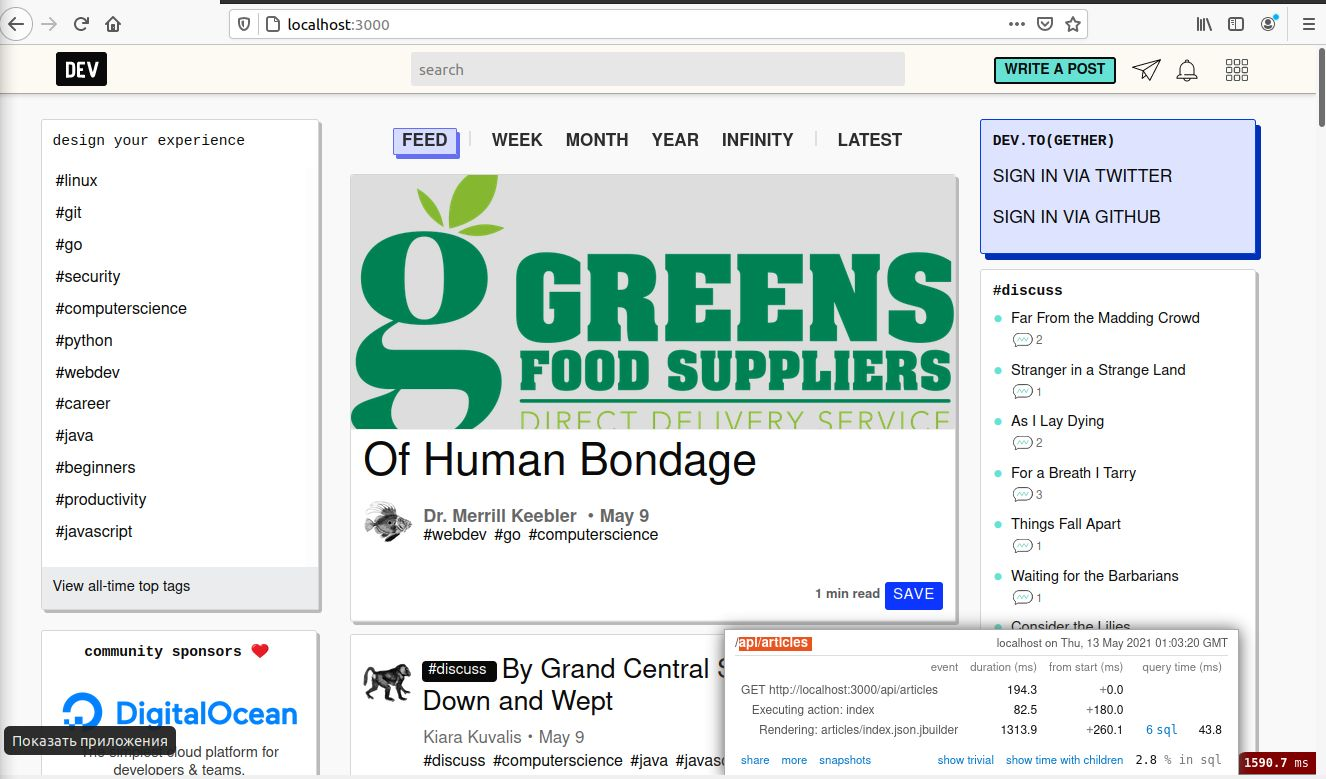
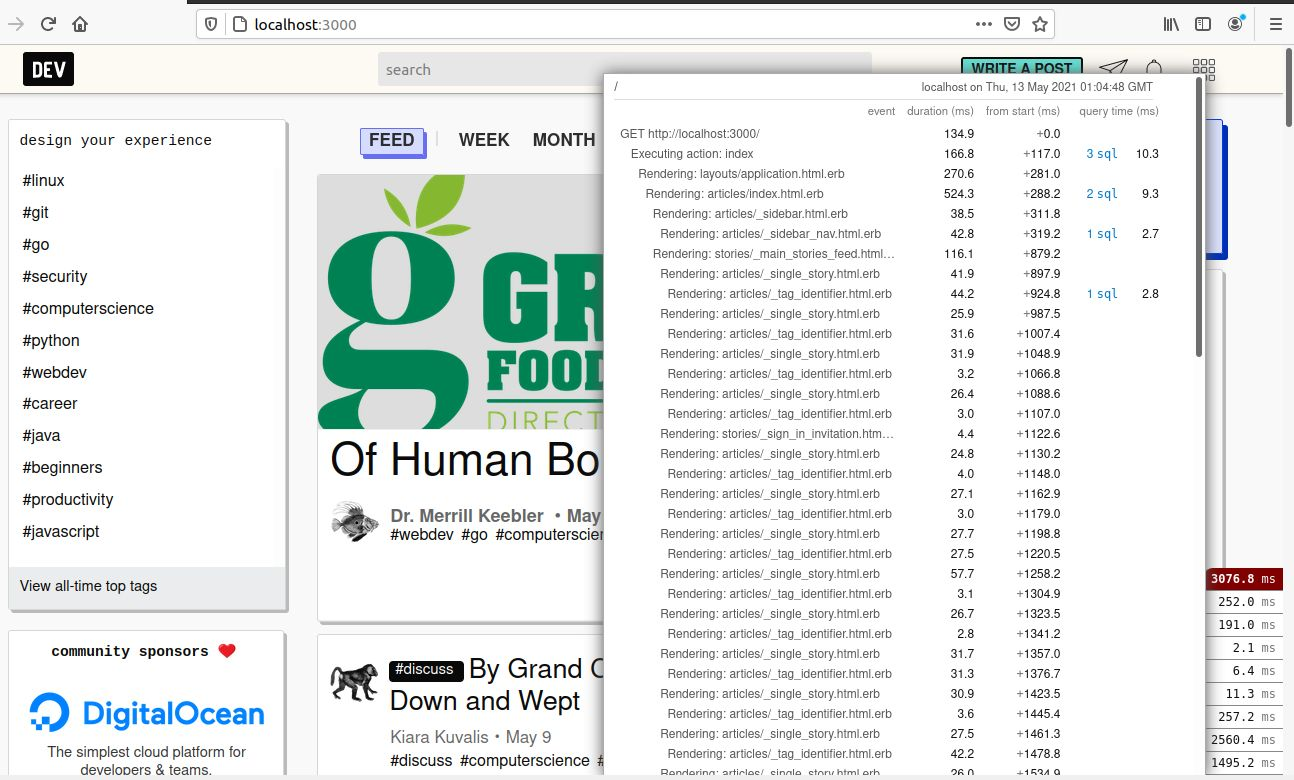
rendering optimization

diff --git a/config/environments/development.rb b/config/environments/development.rb
@@ -13,10 +13,10 @@ Rails.application.configure do
   # In the development environment your application's code is reloaded on
   # every request. This slows down response time but is perfect for development
   # since you don't have to restart the web server when you make code changes.
-  config.cache_classes = false  # true: for newrelic; false: default
+  config.cache_classes = true  # true: for newrelic; false: default
 
   # Do not eager load code on boot.
-  config.eager_load = false
+  config.eager_load = true
 
   # Show full error reports and disable caching.
   config.consider_all_requests_local = true

diff --git a/case-study.md b/case-study.md
@@ -4,8 +4,8 @@
 
 - [x] Познакомиться с интересным живым `Rails` `open-source` проектом
 - [x] Попрактиковаться в настройке мониторинга
-- [ ] Попрактиковаться в поиске возможностей для оптимизации
-- [ ] Попрактиковаться в проверке гипотез и обосновании предложений по оптимизации
+- [x] Попрактиковаться в поиске возможностей для оптимизации
+- [x] Попрактиковаться в проверке гипотез и обосновании предложений по оптимизации
 
 ## Подготовка
 
@@ -43,9 +43,6 @@
 Рассмотрите гипотезу о том, что можно закешировать `<%= render "articles/single_story", story: story %>` в `_main_stories_feed.html.erb` и это даст заметный эффект.
 
 - Не забудьте включить локальное кэширование (`touch tmp/caching-dev.txt`)
-- Сделайте `benchmark` с помощью `ab`
-- Сделайте оптимизацию
-- Перезапустите `benchmark`
 
 #### Этап №1
 
@@ -80,7 +77,7 @@
   ![newrelic_before_1.4](https://github.com/rubygitflow/rails-optimization-task4/raw/profiler4/statistics_report/newrelic_before_1.4.jpg)
 
 - `Prometheus`
-  ![skylight_before_1.1](https://github.com/rubygitflow/rails-optimization-task4/raw/profiler4/statistics_report/prometheus_before_1.1.jpg)
+  ![prometheus_before_1.1](https://github.com/rubygitflow/rails-optimization-task4/raw/profiler4/statistics_report/prometheus_before_1.1.jpg)
 
 - `rack-mini-profiler`
   ![mini_profiler_before_1.1](https://github.com/rubygitflow/rails-optimization-task4/raw/profiler4/statistics_report/mini_profiler_before_1.1.jpg)
@@ -92,3 +89,31 @@
   Из первого рисунка видно, что в качестве точки роста выделяется rendering
   ![rails_panel_before_1.1](https://github.com/rubygitflow/rails-optimization-task4/raw/profiler4/statistics_report/rails_panel_before_1.1.jpg)
   ![rails_panel_before_1.1](https://github.com/rubygitflow/rails-optimization-task4/raw/profiler4/statistics_report/rails_panel_before_1.2.jpg)
+
+#### Этап №4
+
+- Модифицировано приложение по точке роста — rending `StoriesController#index`
+  1. [Caching with Rails: An Overview](https://guides.rubyonrails.org/caching_with_rails.html)
+  2. [Caching in Ruby on Rails 5.2](https://medium.com/rubyinside/https-medium-com-wintermeyer-caching-in-ruby-on-rails-5-2-d72e1ddf848c)
+
+Включили кэширование в `environment` `development`
+
+#### Этап №5
+
+- Сняты показания по точкам роста
+- `SKYLIGHT`:
+  ![skylight_after_1.1](https://github.com/rubygitflow/rails-optimization-task4/raw/profiler4/statistics_report/skylight_after_1.1.jpg)
+  ![skylight_after_1.2](https://github.com/rubygitflow/rails-optimization-task4/raw/profiler4/statistics_report/skylight_after_1.2.jpg)
+
+- `New Relic`:
+  ![newrelic_after_1.4](https://github.com/rubygitflow/rails-optimization-task4/raw/profiler4/statistics_report/newrelic_after_1.4.jpg)
+
+- `rack-mini-profiler`
+  ![mini_profiler_after_1.1](https://github.com/rubygitflow/rails-optimization-task4/raw/profiler4/statistics_report/mini_profiler_after_1.1.jpg)
+
+#### Этап №6
+
+- Выводы:
+
+1. Оптимизация рендеринга главной страницы приложения выполнена за счёт кэширования `partial`-ов `_single_story.html.erb`.
+2. Наилучшим профилировщиком для выборки точки роста при рендеринге оказался `SKYLIGHT`
